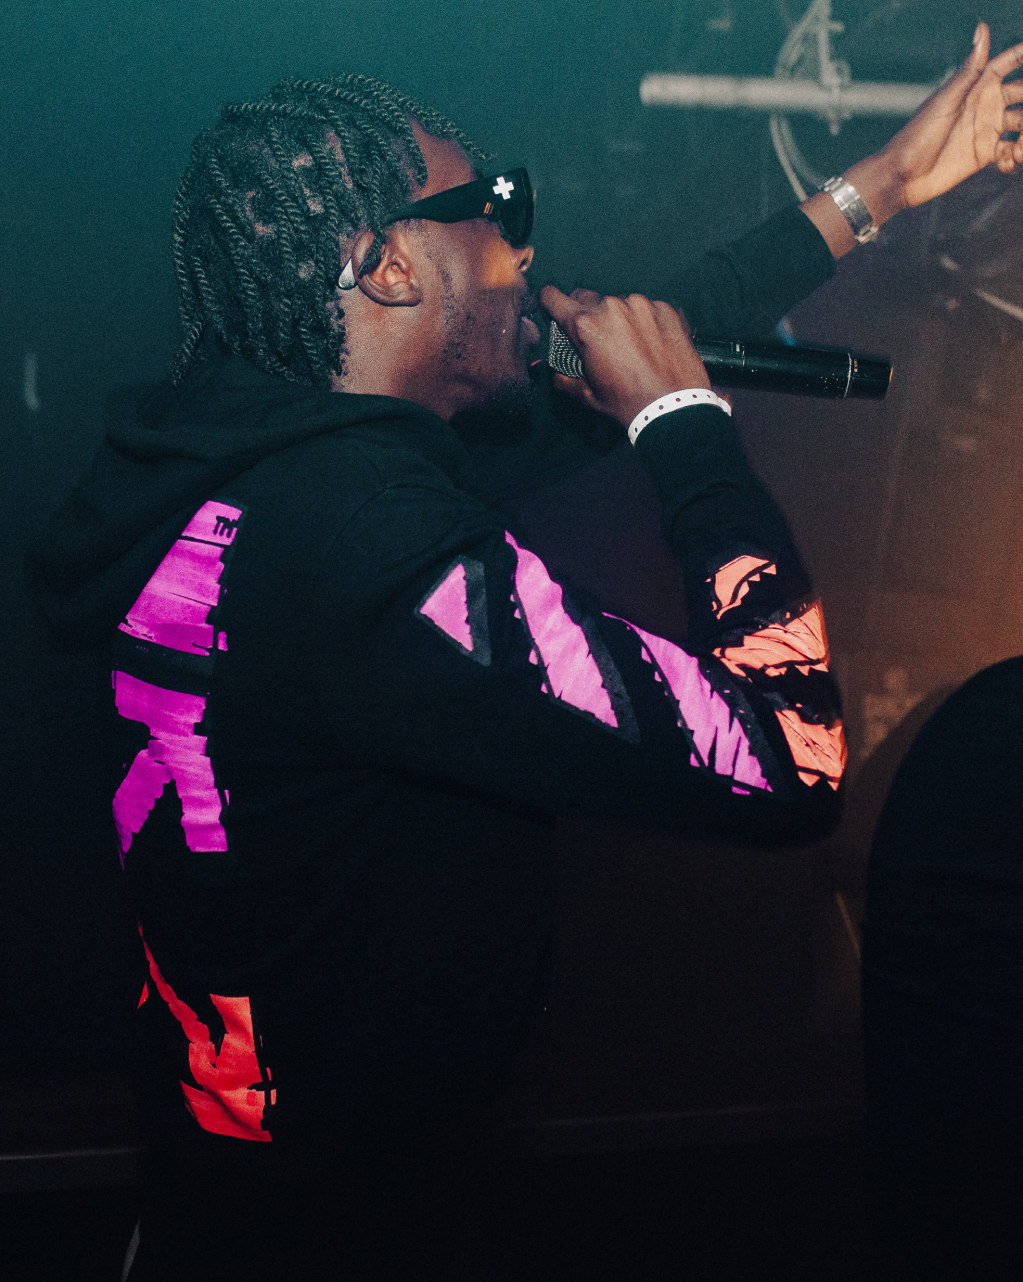
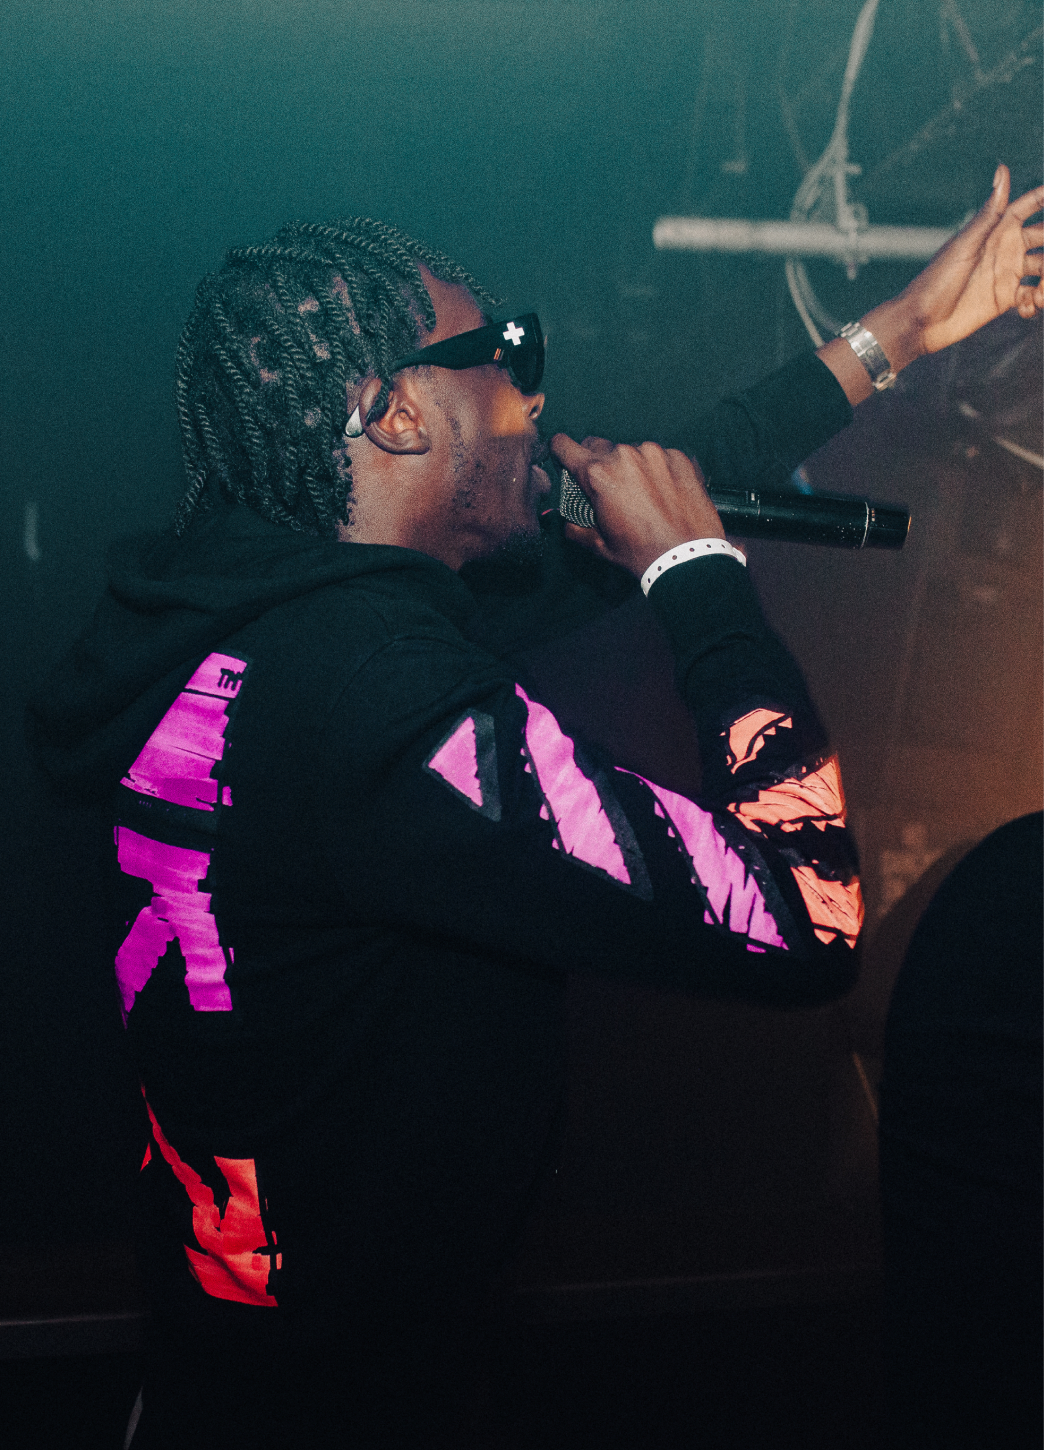
ADD: Desktop version

diff --git a/src/styles/ImJustBait.scss b/src/styles/ImJustBait.scss
@@ -47,7 +47,7 @@
     }
     &__last{
       width: 100%;
-      height: 35rem;
+      height: 45rem;
       background: linear-gradient(
         0deg, rgba(0, 0, 0, 0.49),
         rgba(0, 0, 0, 0.49)),
@@ -92,12 +92,73 @@
   @media (min-width: 696px) {
     &-image{
       &__first{
-        background-image: url("../assets/images/ImJustBaitLeft.png");
+        background: linear-gradient(
+          0deg, rgba(0, 0, 0, 0.49),
+          rgba(0, 0, 0, 0.49)),
+          url("../assets/images/ImJustBaitLeft.png");
+          background-position: 30% 30%;
       }
       &__last{
-        object-fit: contain;
         background-position: 60% 10%;
       }
     }
   }
+  // Responsive for desktop
+  @media (min-width: 1024px) {
+    $container-height: 40rem;
+    &-container {
+      display: grid;
+      grid-template-rows: $container-height;
+      grid-template-columns: 50% 50%;
+      grid-template-areas:"LeftImg RightImg"
+                          "Titles Titles"
+                          "Desc Logo";
+    }
+    &-headings {
+      grid-area: Titles;
+      text-align: right;
+      margin-left: 0;
+      margin-top: 0;
+      margin-top: 10rem - $container-height;
+      z-index: 0;
+      max-width: initial;
+      h1 {
+        font-size: 5rem;
+      }
+      h2 {
+        font-size: 1.5rem;
+        letter-spacing: 0.415rem;
+      }
+    }
+    &-image{
+      &__first{
+        grid-area: LeftImg;
+        height: inherit;
+        background-position: 32% 30%;
+      }
+      &__last{
+        height: inherit;
+        grid-area: RightImg;
+        background-position: 60% 30%;
+      }
+    }
+    &-description {
+      grid-area: Desc;
+      padding: 0 2rem;
+      margin-top: -18rem;
+      height: fit-content;
+      p {
+        margin-top: 2.25rem;
+        margin-bottom: 2.25rem;
+      }
+    }
+    &-logo {
+      grid-area: Logo;
+      z-index: 0;
+      margin: 0;
+      margin-top: -7rem;
+      justify-self: end;
+    }
+  }
+
 }
